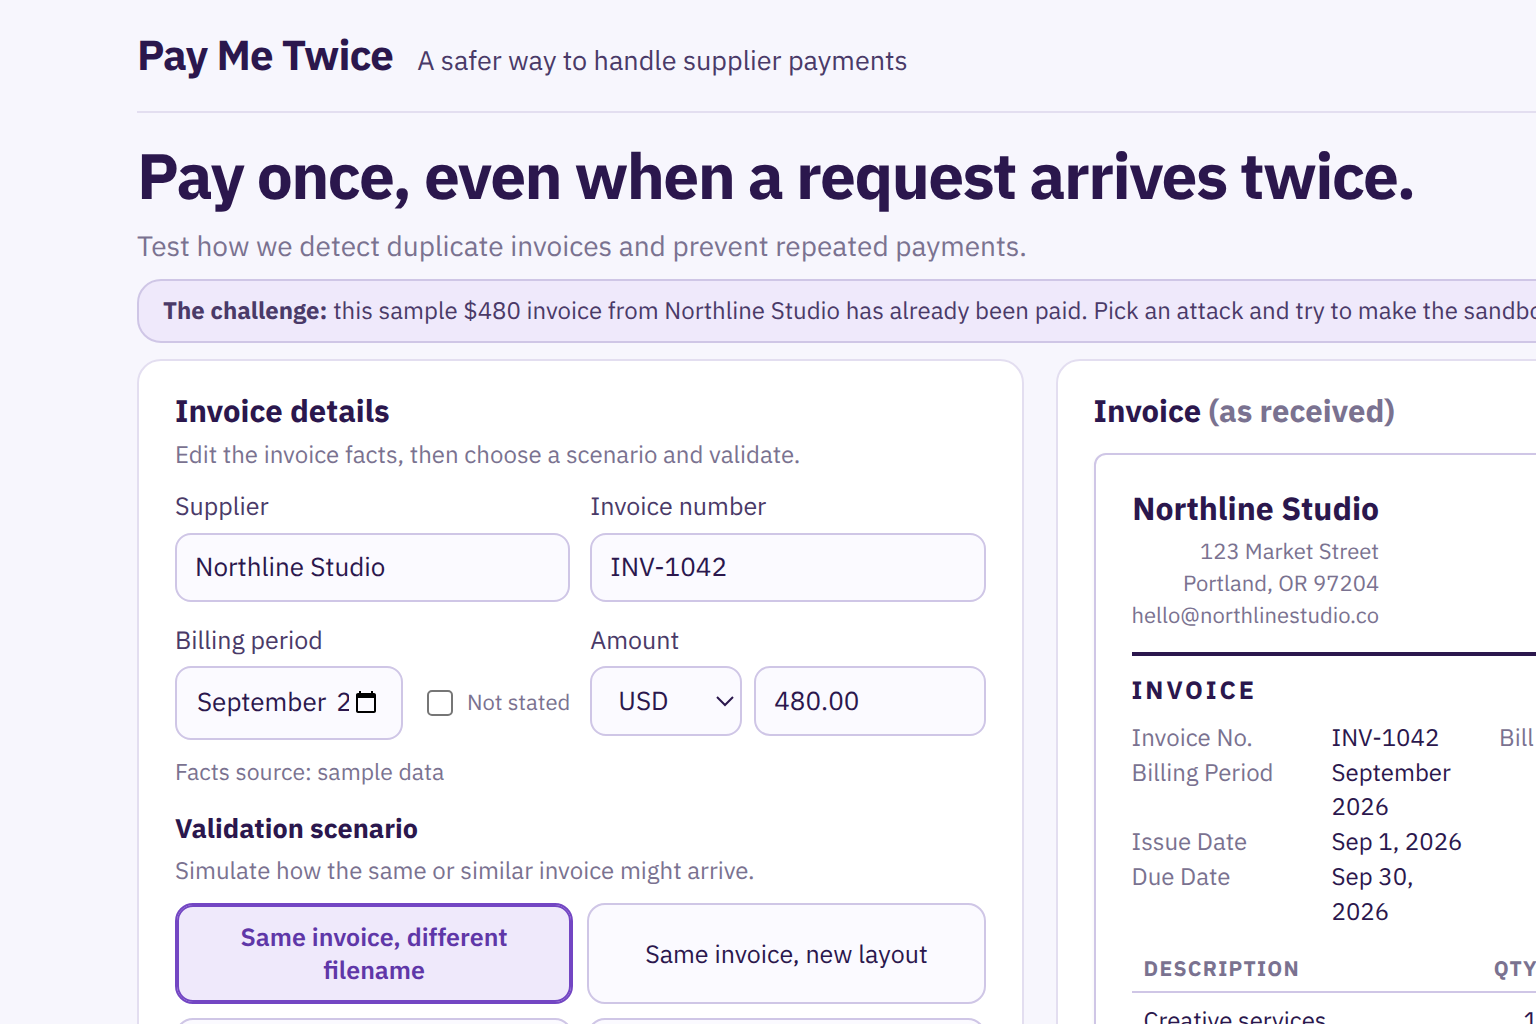
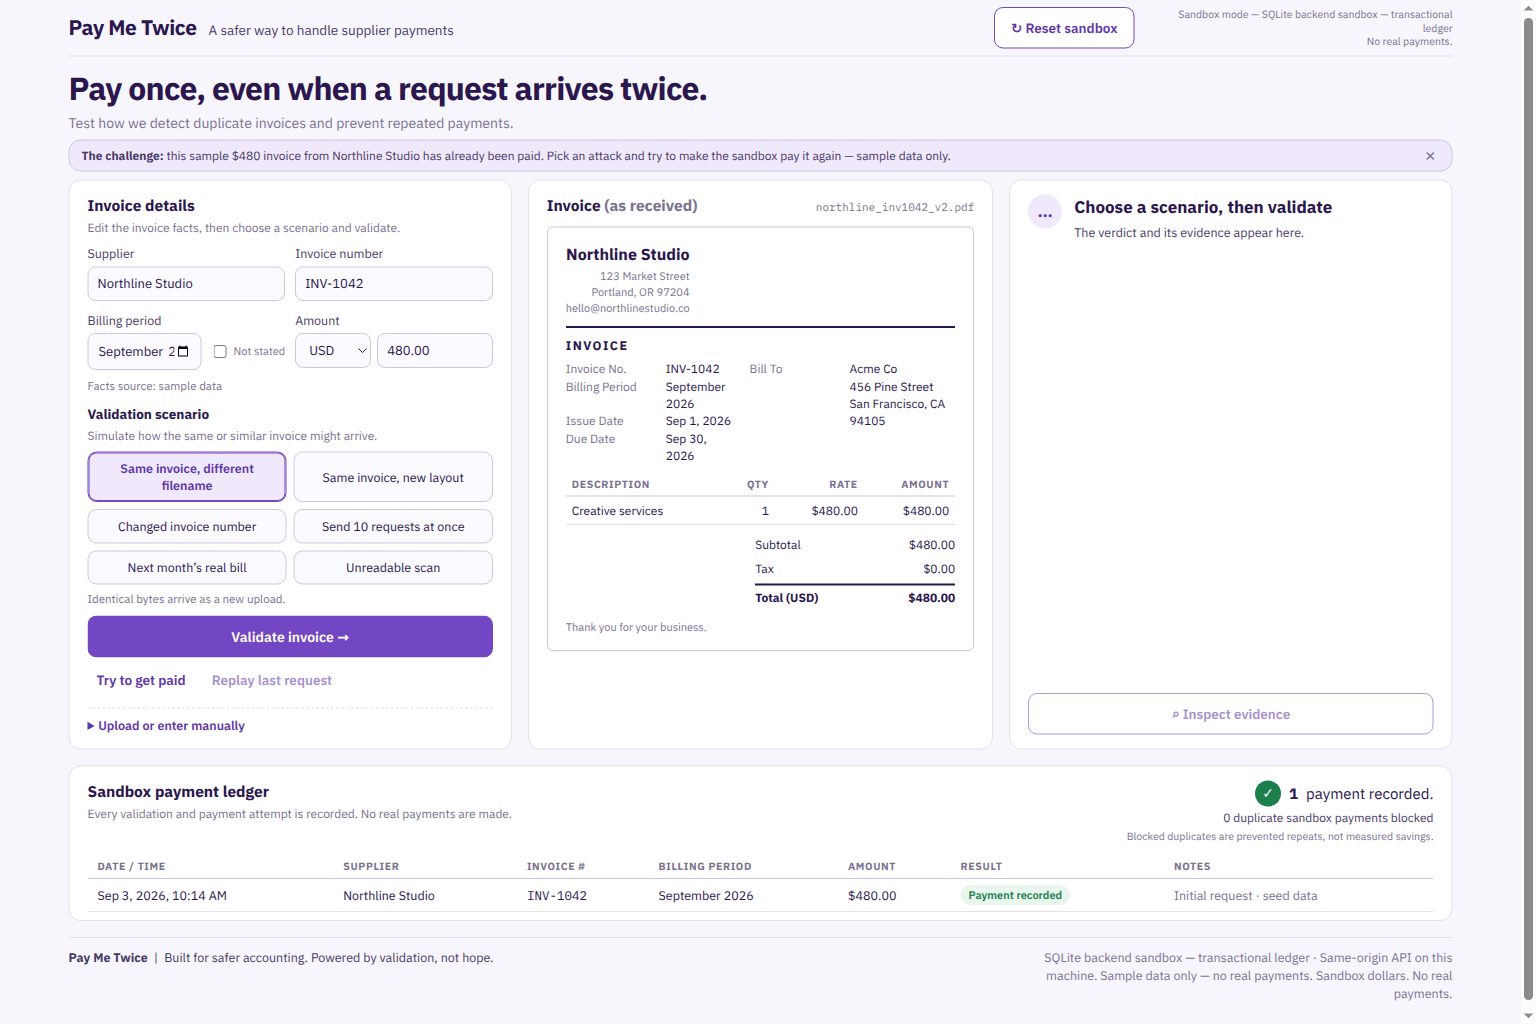
Provenance + currency guards, exact-viewport screenshots
- Editing extracted/sample facts marks the record 'mixed' (document +
  manual edits) — extraction label is never kept after a manual edit
- Currency is a required unstated fact: a total without a currency code
  leaves it blank; USD is never assumed; pay blocked until picked; engine
  rejects missing currency at the API layer too
- Screenshot set re-captured at exact CSS viewport dims (1536x1024,
  1366x768, true 390x844) with device scale/zoom reset — fixes the
  zoomed/cropped desktop-initial capture
- Mobile: paper meta stacks vertically <=560px; verified scrollWidth <=
  innerWidth at 390 with only the ledger's own scroll container

diff --git a/apps/pay-me-twice/src/App.tsx b/apps/pay-me-twice/src/App.tsx
@@ -4,7 +4,7 @@ import type {
 } from './types';
 import { connect } from './api';
 import { BASE_INVOICE, buildScenarioDocument } from '../engine/documents.mjs';
-import { normalizeFacts, sha256Hex } from '../engine/engine.mjs';
+import { factsSourceAfterEdit, normalizeFacts, sha256Hex } from '../engine/engine.mjs';
 import Header from './components/Header';
 import InvoiceDetailsCard from './components/InvoiceDetailsCard';
 import InvoiceDocumentCard from './components/InvoiceDocumentCard';
@@ -184,7 +184,7 @@ export default function App() {
         const merged = normalizeFacts({
           supplier: f.supplier ?? '',
           invoiceNumber: f.invoiceNumber ?? '',
-          currency: f.currency ?? 'USD',
+          currency: f.currency ?? '',
           amountCents: f.amountCents ?? null,
           period: f.period ?? '',
           items: f.items ?? [],
@@ -197,6 +197,7 @@ export default function App() {
         const missing = [
           !merged.supplier && 'supplier',
           !merged.invoiceNumber && 'invoice number',
+          !merged.currency && 'currency',
           merged.amountCents == null && 'amount',
         ].filter(Boolean).join(', ');
         setUploadNote(missing
@@ -204,7 +205,7 @@ export default function App() {
           : `Extracted ${res.found.length} field(s) from ${res.filename} — confirm or edit before validating.`);
       } else {
         setFacts(normalizeFacts({
-          supplier: '', invoiceNumber: '', currency: 'USD', amountCents: null,
+          supplier: '', invoiceNumber: '', currency: '', amountCents: null,
           period: '', items: [], filename: res.filename,
           factsSource: 'manual', docSupported: false,
         }));
@@ -221,7 +222,7 @@ export default function App() {
   const stats = state?.stats;
   // A required fact missing means the current document didn't state it and
   // nothing was kept from before — the user must complete it before validating.
-  const factsComplete = !!(facts.supplier && facts.invoiceNumber && facts.amountCents != null);
+  const factsComplete = !!(facts.supplier && facts.invoiceNumber && facts.amountCents != null && facts.currency);
 
   return (
     <div className="page">
@@ -254,11 +255,11 @@ export default function App() {
             canValidate={factsComplete}
             canReplay={!!lastRequestId.current}
             onFactsChange={(patch) =>
-              setFacts((f) => ({ ...f, ...patch, factsSource: f.factsSource === 'extracted' ? 'extracted' : 'manual' }))
+              setFacts((f) => ({ ...f, ...patch, factsSource: factsSourceAfterEdit(f.factsSource) }))
             }
             onAmountChange={(text, cents) => {
               setAmountText(text);
-              setFacts((f) => ({ ...f, amountCents: cents, factsSource: f.factsSource === 'extracted' ? 'extracted' : 'manual' }));
+              setFacts((f) => ({ ...f, amountCents: cents, factsSource: factsSourceAfterEdit(f.factsSource) }));
             }}
             onScenario={applyScenario}
             onValidate={scenario === 'burst' ? doBurst : doValidate}

diff --git a/apps/pay-me-twice/src/components/InvoiceDetailsCard.tsx b/apps/pay-me-twice/src/components/InvoiceDetailsCard.tsx
@@ -70,6 +70,7 @@ export default function InvoiceDetailsCard({
               value={facts.currency}
               onChange={(e) => onFactsChange({ currency: e.target.value })}
             >
+              <option value="" disabled>Currency…</option>
               {CURRENCIES.map((c) => <option key={c}>{c}</option>)}
             </select>
             <input
@@ -90,7 +91,8 @@ export default function InvoiceDetailsCard({
       )}
       <p className="fact-source">
         Facts source: {facts.factsSource === 'extracted' ? 'extracted from document' :
-          facts.factsSource === 'manual' ? 'manual entry' : 'sample data'}
+          facts.factsSource === 'manual' ? 'manual entry' :
+          facts.factsSource === 'mixed' ? 'document + manual edits' : 'sample data'}
       </p>
 
       <h3 className="scenario-h">Validation scenario</h3>

diff --git a/apps/pay-me-twice/src/engine-types.d.ts b/apps/pay-me-twice/src/engine-types.d.ts
@@ -11,6 +11,7 @@ declare module '*engine/engine.mjs' {
   export function normalizeSupplier(v: unknown): string;
   export function normalizeInvoiceNumber(v: unknown): string;
   export function normalizeCurrency(v: unknown): string;
+  export function factsSourceAfterEdit(source: FactsSource | string): FactsSource;
   export function normalizeFacts(f: Partial<InvoiceFacts>): InvoiceFacts;
   export function validateFacts(f: InvoiceFacts): string[];
   export function itemsSignature(items: LineItem[]): string;

diff --git a/apps/pay-me-twice/src/styles.css b/apps/pay-me-twice/src/styles.css
@@ -299,6 +299,10 @@ body {
 }
 @media (max-width: 560px) {
   .fields { grid-template-columns: 1fr; }
+  .paper { padding: 12px 14px; }
+  .paper-meta { flex-direction: column; gap: 4px; }
+  .paper-meta dl > div { gap: 8px; }
+  .paper-meta dt { min-width: 78px; }
 }
 @media (max-width: 640px) {
   .page { padding: 0 14px 18px; }

diff --git a/apps/pay-me-twice/src/types.ts b/apps/pay-me-twice/src/types.ts
@@ -5,7 +5,7 @@ export interface LineItem {
   amountCents: number;
 }
 
-export type FactsSource = 'seed' | 'extracted' | 'manual' | 'generated';
+export type FactsSource = 'seed' | 'extracted' | 'manual' | 'mixed' | 'generated';
 
 export interface InvoiceFacts {
   supplier: string;

diff --git a/apps/pay-me-twice/docs/design-review.md b/apps/pay-me-twice/docs/design-review.md
@@ -70,14 +70,18 @@ Compared `pay-me-twice-concept.png` (1536x1024) against live captures in
 ## Upload safety rules (audit fixes)
 
 - A new document **never retains** prior or sample values for supplier,
-  invoice number, amount, or period. Extraction fills only what the text
-  states; everything else stays blank and the form says which required
-  facts are missing.
-- **Pay is blocked until verified**: supplier + invoice number + amount
-  must all be present before Validate / Try to get paid / Replay can run,
-  with an inline note that missing facts are never backfilled.
+  invoice number, amount, currency, or period. Extraction fills only what
+  the text states; everything else stays blank and the form says which
+  required facts are missing. A total with no currency code leaves
+  currency unstated — the user must pick one explicitly; USD is never
+  assumed.
+- **Pay is blocked until verified**: supplier + invoice number + amount +
+  currency must all be present before Validate / Try to get paid / Replay
+  can run, with an inline note that missing facts are never backfilled.
 - `factsSource` stays honest: extraction-filled fields are "extracted",
-  fields the user typed become "manual".
+  fields the user typed are "manual", and editing extracted/sample facts
+  marks the record "document + manual edits" (mixed) — never silently
+  relabeled as pure extraction.
 - The native PDF reader parses escaped literal strings (`\(`, `\)`, `\\`,
   octal escapes, line continuations, nested balanced parens) across `Tj`,
   `TJ`, and `'` operators, so `Total \(USD\) $17.25` extracts as $17.25.
@@ -101,14 +105,19 @@ Compared `pay-me-twice-concept.png` (1536x1024) against live captures in
 - Grid items' min-content could force the one-column mobile track wider
   than the viewport (390px → scrollWidth 437 in QA) → tracks are now
   `minmax(0, 1fr)` at every breakpoint.
+- The invoice paper's meta row (invoice block + bill-to) overflowed its
+  card at 390px → it stacks vertically below 560px.
 
 ## Mobile (390px)
 
 Topbar stacks, the workspace goes single-column via `minmax(0, 1fr)` tracks,
 fact fields are one column below 560px, all inputs and controls have
-`min-width: 0`, and the ledger table scrolls horizontally inside its card.
-Verified at a true 390px viewport: `scrollWidth == innerWidth == 390` — no
-horizontal page overflow (`mobile-initial.png`).
+`min-width: 0`, the invoice meta block stacks vertically, and the ledger
+table scrolls horizontally inside its own card (by design). Verified at a
+true 390px viewport: `documentElement.scrollWidth (375) <= innerWidth
+(390)` — no horizontal page overflow and no stray inner scrollbars
+(`mobile-initial.png`). Screenshots are captured at exact CSS viewport
+dimensions (1536x1024, 1366x768, 390x844, device scale reset).
 
 ## Known honest limitations (by design)
 

diff --git a/apps/pay-me-twice/README.md b/apps/pay-me-twice/README.md
@@ -73,10 +73,14 @@ facts are offered instead.
 
 A new document never retains facts from a previous or sample invoice:
 extraction fills only what the text states, everything else stays blank, and
-pay is blocked until supplier, invoice number and amount are verified. In the
-"Invoice (as received)" panel, uploads show their own extracted text as
-source evidence rather than a fabricated paper, and the billing-period
-control accepts any real month or "Not stated".
+pay is blocked until supplier, invoice number, amount **and currency** are
+verified. A total with no currency code leaves currency unstated — it must
+be picked explicitly; USD is never assumed. Editing extracted or sample
+facts marks the record "document + manual edits" rather than silently
+keeping the "extracted" label. In the "Invoice (as received)" panel,
+uploads show their own extracted text as source evidence rather than a
+fabricated paper, and the billing-period control accepts any real month
+or "Not stated".
 
 ## Integrity notes
 
